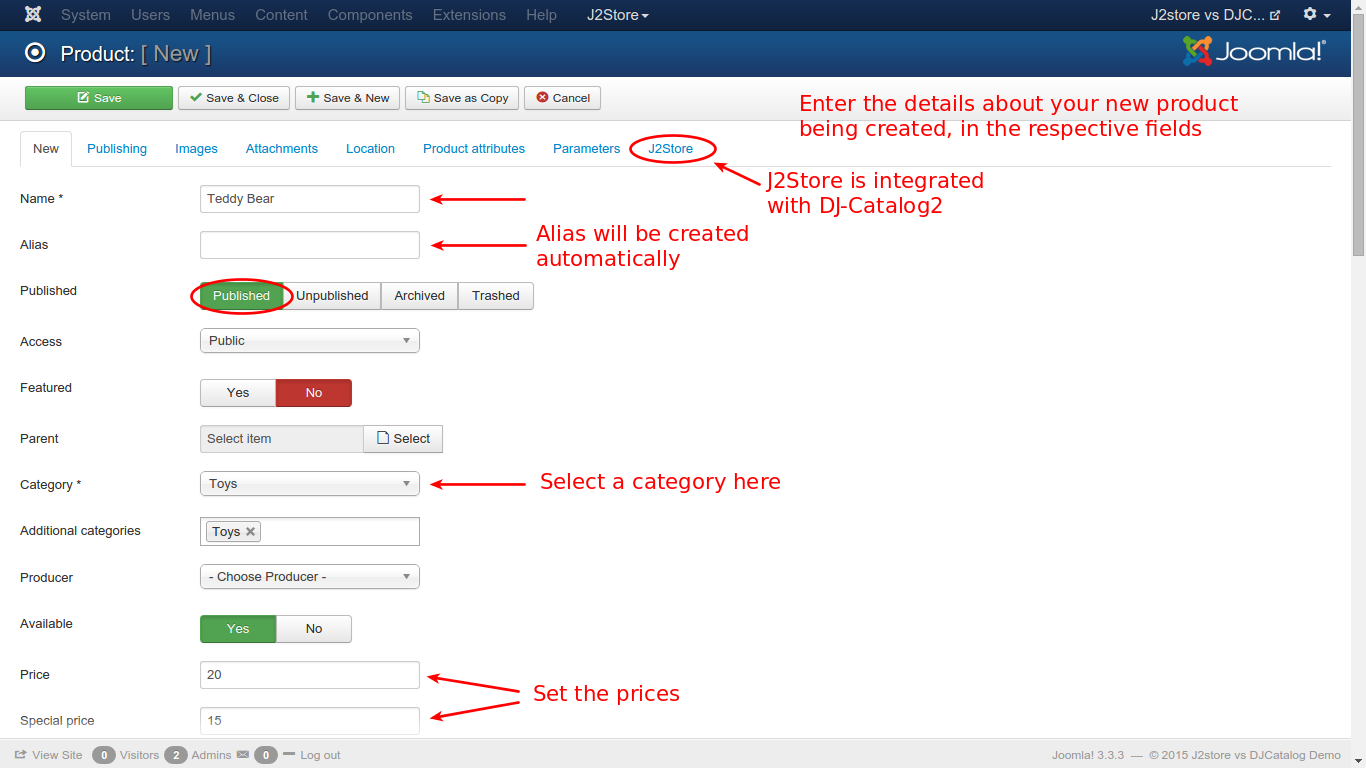
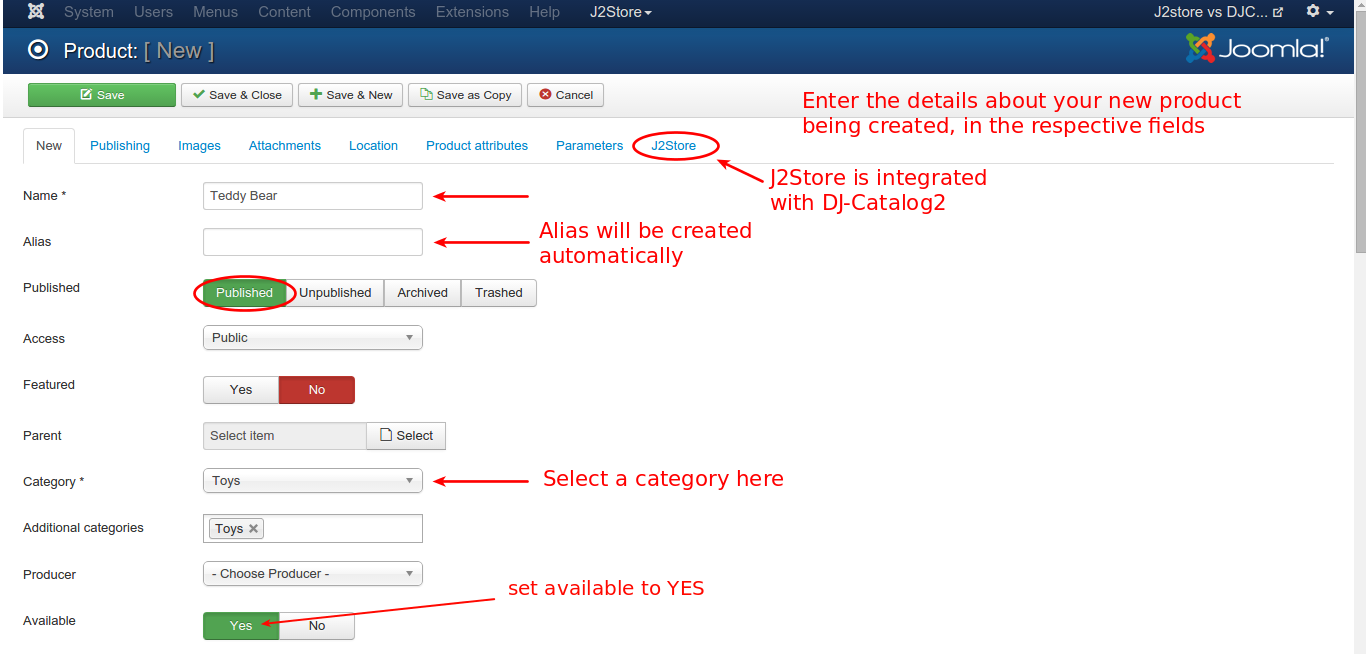
- djcatalog2 guide updated

diff --git a/djcatalog2.md b/djcatalog2.md
@@ -17,7 +17,8 @@ As shown in the image below, use joomla installer to install DJ-Catalog2:
 2. Select the plugin using the **Choose File** button and click *Upload &Install*
 3. Go to **Extensions -> Plugin Manager -> Filter : Select type "content"** -> Select the Plugin **J2Store - DJCatalog2** and enable the content plugin as shown in the image:
 ![](./assets/images/djc-enable.png)
-
+4. Hide the DJ Catalog's Add to quote button and Price. Price and cart will be displayed in J2Store cart section.
+![](./assets/images/djc-install-hide-price-2.png)
 ### Create a product
 1. Go to **Components -> DJ-Catalog2**.
 ![](./assets/images/djc-create-product-1.png)
@@ -32,6 +33,7 @@ As shown in the image below, use joomla installer to install DJ-Catalog2:
 ![](./assets/images/djc-create-new-product-4.png)
 
 5. Now the product is created and will have the configuration options enabled. Enter the product details like, images, prices, options, filters, relations etc., and save the configuration.
+![](./assets/images/djc-create-new-product-pricing-tab.png)
 ![](./assets/images/djc-create-new-product-5.png)
 
 6. The product is created using DJ-Catalog2. To display the product in the frontend, a menu is to be created. 
